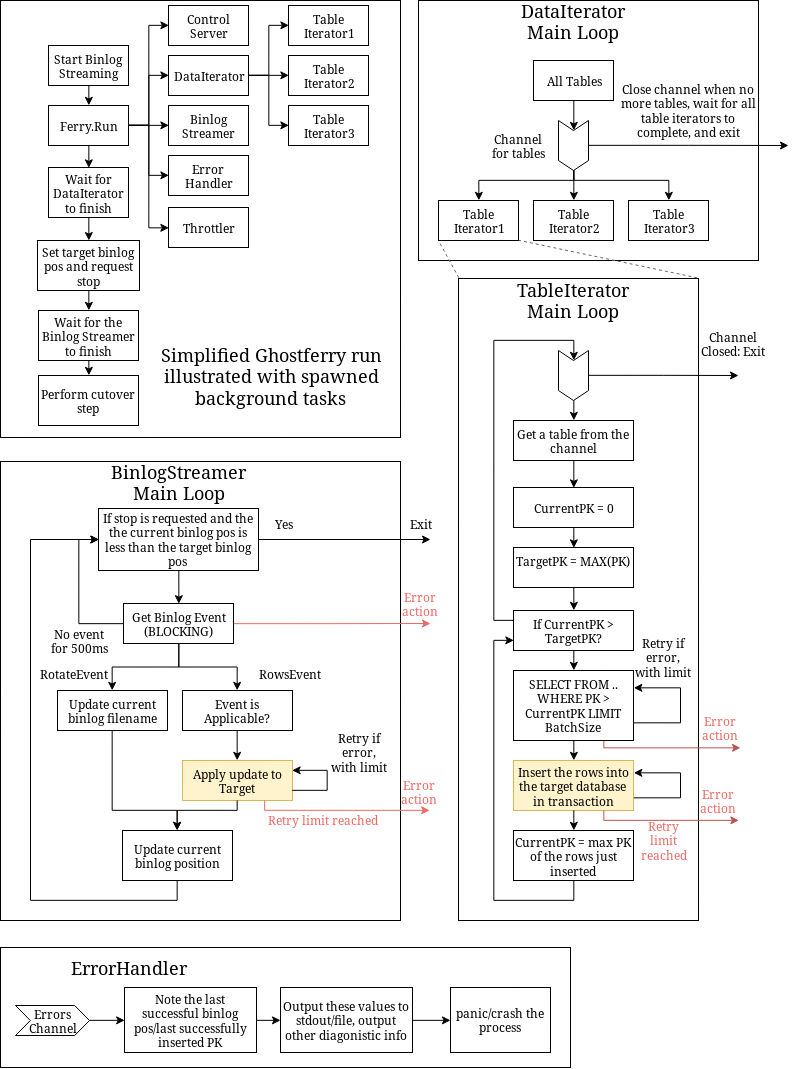
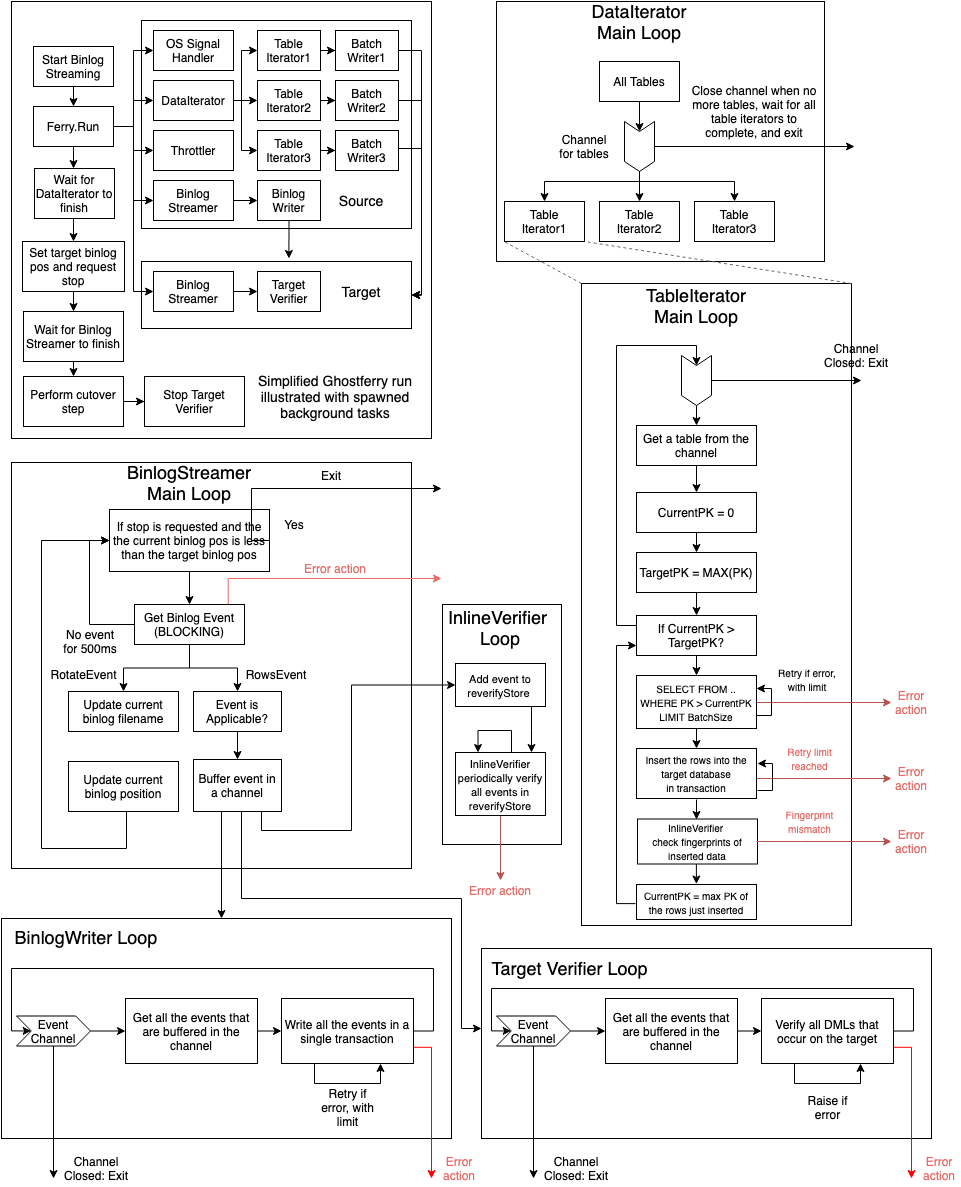
Update documentation for InlineVerifier and TargetVerifier

diff --git a/docs/source/verifiers.rst b/docs/source/verifiers.rst
@@ -5,30 +5,30 @@ Verifiers
 =========
 
 Verifiers in Ghostferry is designed to ensure that Ghostferry did not
-corrupt/miss data. There are two different verifiers: the
-``ChecksumTableVerifier`` and the ``IterativeVerifier``. A comparison of them
+corrupt/miss data. There are three different verifiers: the
+``ChecksumTableVerifier``, the ``IterativeVerifier``, and the ``InlineVerifier``. A comparison of them
 are given below:
 
-+-----------------------+-----------------------+-----------------------------+
-|                       | ChecksumTableVerifier | IterativeVerifier           |
-+-----------------------+-----------------------+-----------------------------+
-|Mechanism              | ``CHECKSUM TABLE``    | Verify row before cutover;  |
-|                       |                       | Reverify changed rows during|
-|                       |                       | cutover.                    |
-+-----------------------+-----------------------+-----------------------------+
-|Impacts on Cutover Time| Linear w.r.t data size| Linear w.r.t. change rate   |
-|                       |                       | [1]_                        |
-+-----------------------+-----------------------+-----------------------------+
-|Impacts on Copy Time   | None                  | Linear w.r.t data size      |
-|[2]_                   |                       |                             |
-+-----------------------+-----------------------+-----------------------------+
-|Memory Usage           | Minimal               | Linear w.r.t rows changed   |
-+-----------------------+-----------------------+-----------------------------+
-|Partial table copy     | Not supported         | Supported                   |
-+-----------------------+-----------------------+-----------------------------+
-|Worst Case Scenario    | Large databases causes| Verification is slower than |
-|                       | unacceptable downtime | the change rate of the DB;  |
-+-----------------------+-----------------------+-----------------------------+
++-----------------------+-----------------------+-----------------------------+-----------------------------+
+|                       | ChecksumTableVerifier | IterativeVerifier           | InlineVerifier              |
++-----------------------+-----------------------+-----------------------------+-----------------------------+
+|Mechanism              | ``CHECKSUM TABLE``    | Verify row before cutover;  | Verify row after insert;    |
+|                       |                       | Reverify changed rows during| Reverify changed rows before|
+|                       |                       | cutover.                    | and during cutover.         |
++-----------------------+-----------------------+-----------------------------+-----------------------------+
+|Impacts on Cutover Time| Linear w.r.t data size| Linear w.r.t. change rate   | Linear w.r.t. change rate   |
+|                       |                       | [1]_                        | [1]_                        |
++-----------------------+-----------------------+-----------------------------+-----------------------------+
+|Impacts on Copy Time   | None                  | Linear w.r.t data size      | Linear w.r.t data size      |
+|[2]_                   |                       |                             |                             |
++-----------------------+-----------------------+-----------------------------+-----------------------------+
+|Memory Usage           | Minimal               | Linear w.r.t rows changed   | Linear w.r.t rows changed   |
++-----------------------+-----------------------+-----------------------------+-----------------------------+
+|Partial table copy     | Not supported         | Supported                   | Supported                   |
++-----------------------+-----------------------+-----------------------------+-----------------------------+
+|Worst Case Scenario    | Large databases causes| Verification is slower than | Verification is slower than |
+|                       | unacceptable downtime | the change rate of the DB;  | the change rate of the DB;  |
++-----------------------+-----------------------+-----------------------------+-----------------------------+
 
 .. [1] Additional improvements could be made to reduce this as long as
        Ghostferry is faster than the rate of change. See
@@ -39,7 +39,7 @@ are given below:
 
 If you want verification, you should try with the ``ChecksumTableVerifier``
 first if you're copying whole tables at a time. If that takes too long, you can
-try using the ``IterativeVerifier``. Alternatively, you can verify in a staging
+try using the ``IterativeVerifier`` or ``InlineVerifier``. Alternatively, you can verify in a staging
 run and not verify during the production run (see :ref:`copydbinprod`).
 
 IterativeVerifier
@@ -73,3 +73,74 @@ IterativeVerifier verifies the source and target in a couple of steps:
 
 A proof of concept TLA+ verification of this algorithm is done in
 `<https://github.com/Shopify/ghostferry/tree/iterative-verifier-tla>`_.
+
+InlineVerifier
+-----------------
+
+InlineVerifier verifies the source and target inline with the other components with
+a few slight differences from the IterativeVerifier above. The primary difference
+being that this verification process happens while the data is being copied by the
+DataIterator instead of after the fact.
+
+With regards to the ``DataIterator`` and ``BatchWriter``:
+
+1. While selecting the data in the ``DataIterator``, a fingerprint is appended
+   to the end of the statement that ``SELECT`` s data from the source as
+   ``SELECT *, MD5(...) FROM ...``
+
+2. The fingerprint, gathered from the ``MD5(...)`` of the query above is stored
+   on the ``RowBatch`` to be used in the next verification step.
+
+3. The ``BatchWriter`` then attempts to write the ``RowBatch``, but instead of inserting
+   it directly, the following process is taken:
+
+   a. A transaction is opened.
+   b. The data contained in the ``RowBatch`` is inserted.
+   c. The PK and fingerprint is then ``SELECT`` ed from the Target
+      as ``SELECT pk, MD5(....) FROM ...``.
+   d. The fingerprint (``MD5``) is then checked against the fingerprint currently
+      stored on the ``RowBatch``.
+
+   The process in step 3 above is retried (with a limit) if there happens to be
+   a failure or mismatch, and will fail the run if they are not verified within
+   the retry limits.
+
+With regards to the BinlogStreamer:
+
+1. As DMLs are observed by the ``BinlogStreamer``, the PKs of the events are placed into
+   a ``reverifyStore`` to be periodically verified for correctness.
+
+2. This continues to happen in the background throughout the process of the Run.
+
+3. If a PK is found not to match, it is added back into the reverifyStore to be verified
+   again.
+
+4. When ``VerifyBeforeCutover`` starts, the InlineVerifier will verify enough of the
+   events in the ``reverifyStore`` to ensure it has a sufficiently small number of events
+   that can be successfully verified before cutover.
+
+5. When ``VerifyDuringCutover`` begins, all of the remaining events in the ``reverifyStore``
+   are verified and any mismatches are returned.
+
+TargetVerifier
+-----------------
+
+TargetVerifier ensures data on the Target is not corrupted during the move process
+and is meant to be used in conjunction with another verifier above.
+
+It uses a configurable annotation string that is prepended to DMLs that acts as
+a verified "signature" of all of Ghostferry's operations on the Target:
+
+1. A BinlogStreamer is created and attached to the Target
+
+2. As this BinlogStreamer receives DML events, it attempts to extract the annotation
+   from each for each of the ``RowsEvents``.
+
+3. If an annotation is not found for the DML, or the extracted annotation does not
+match the configured annotation of Ghostferry, an error is returned and the process fails.
+
+The TargetVerifier needs to be manually stopped before cutover. If it is not stopped,
+it may detect writes from the application (that are not from Ghostferry) and fail the run.
+Stopping before cutover also gives the TargetVerifier the opportunity to inspect all
+of the DMLs in its ``BinlogStreamer`` queue to ensure no corruption of the data has occurred.
+

diff --git a/docs/source/technicaloverview.rst b/docs/source/technicaloverview.rst
@@ -68,8 +68,7 @@ runs.
 
 The overall, simplified architecture of Ghostferry can be summarized with the
 figure below. It shows the basic flow of all the background tasks, along with
-how each task is spawned (starting from ``Ferry.Run``). Yellow boxes indicates
-at which the data is inserted into the target database. Arrows pointing towards
+how each task is spawned (starting from ``Ferry.Run``). Arrows pointing towards
 outside of an encapsulating box indicate the task will exit.  The red arrows
 with "Error action" indicates an error has occurred and the error is sent to
 the ``ErrorHandler``, at which the ErrorHandler flow takes over.
